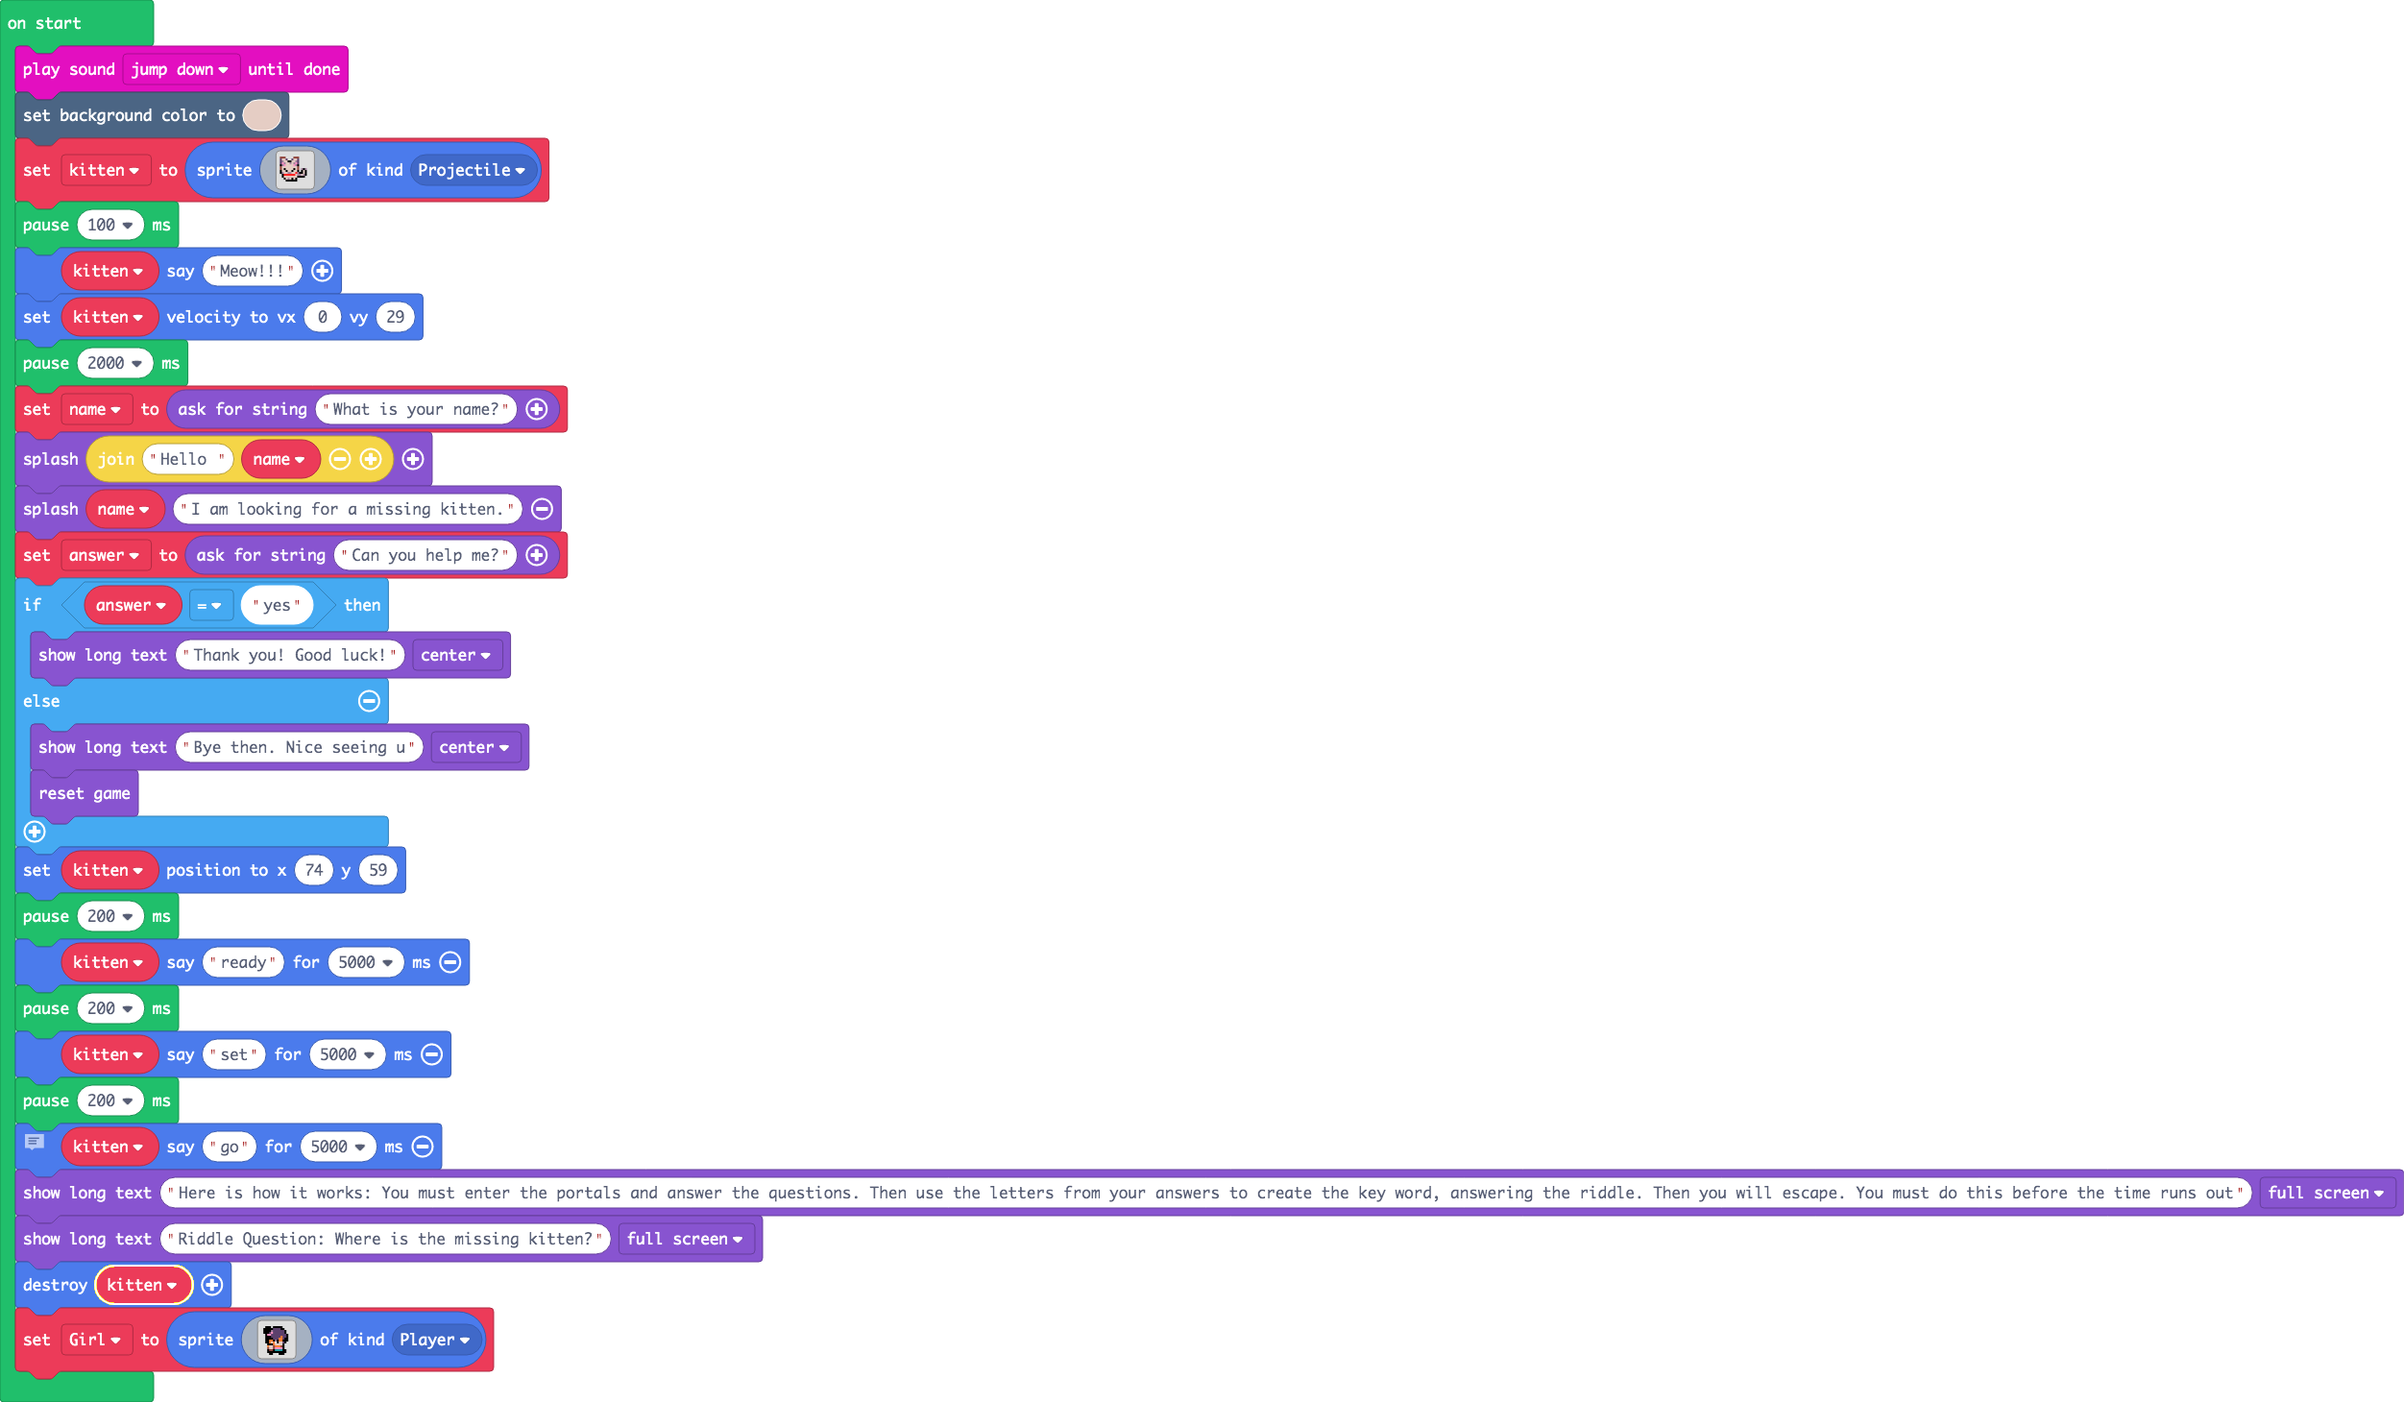
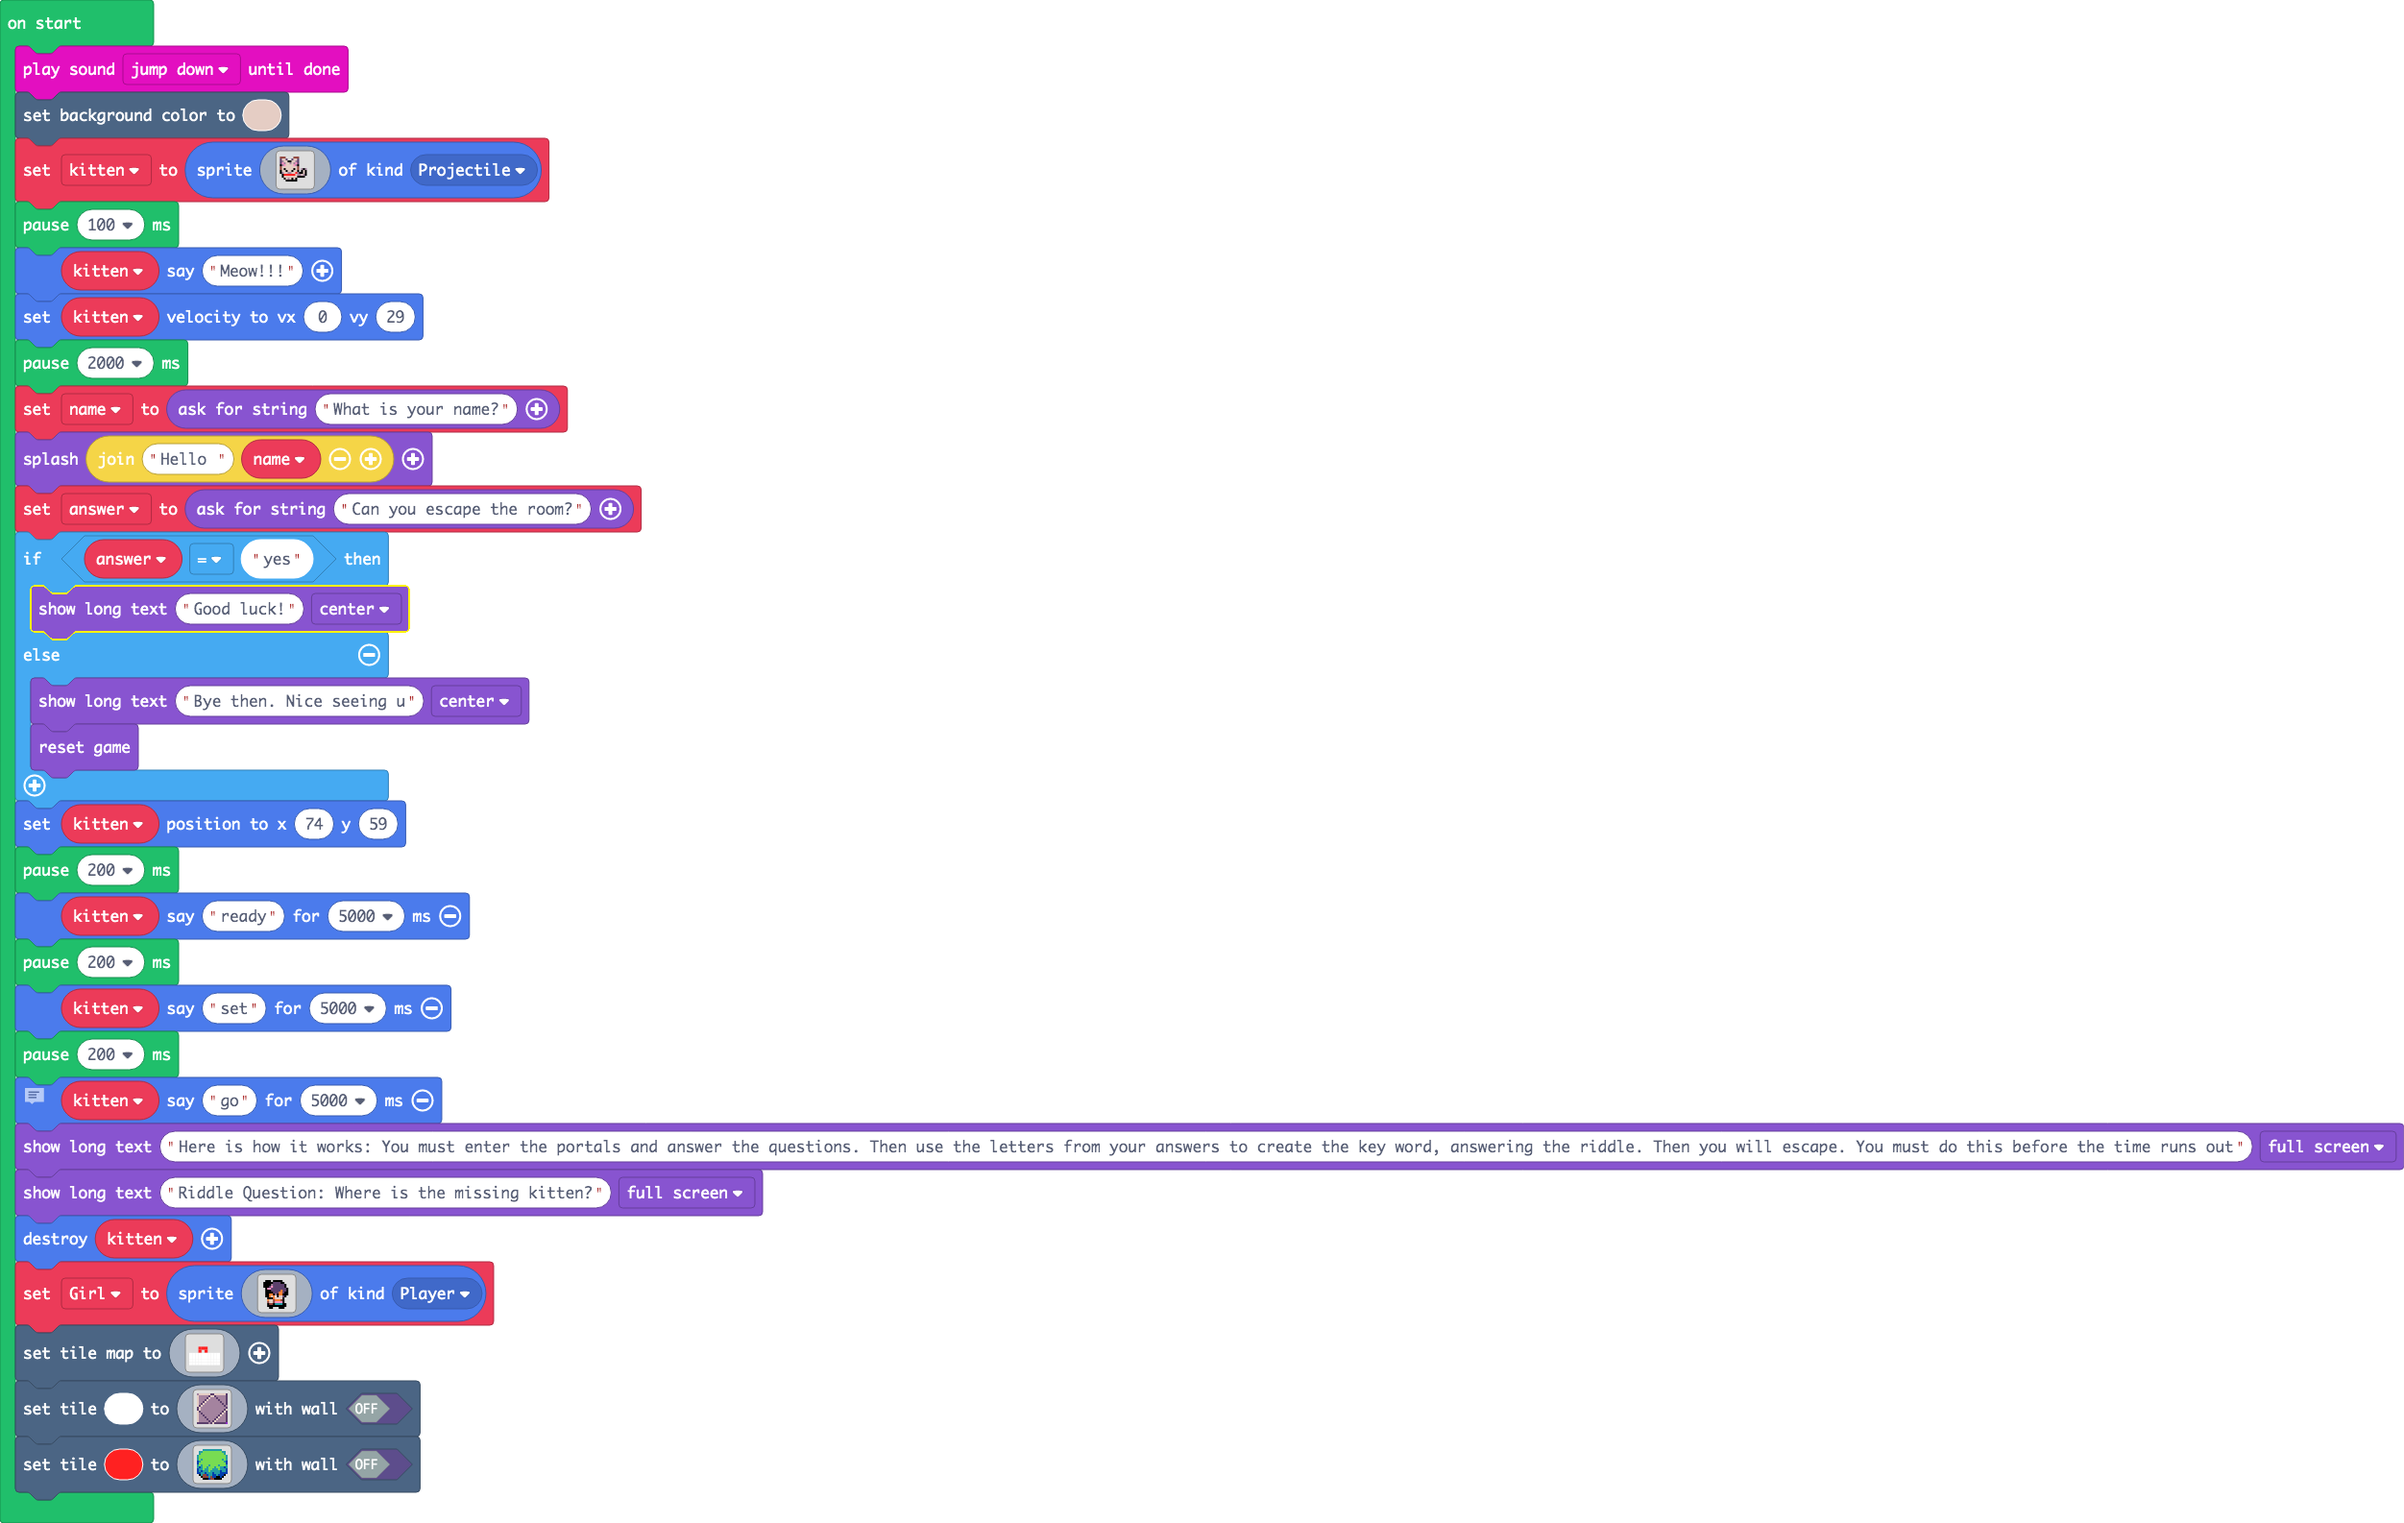
Update main.blocks, main.ts

Changed region(s): [[0.0, 0.0, 1.0, 0.9863]]

diff --git a/main.ts b/main.ts
@@ -29,10 +29,9 @@ kitten.setVelocity(0, 29)
 pause(2000)
 let name = game.askForString("What is your name?")
 game.splash("Hello " + name)
-game.splash(name, "I am looking for a missing kitten.")
-let answer = game.askForString("Can you help me?")
+let answer = game.askForString("Can you escape the room?")
 if (answer == "yes") {
-    game.showLongText("Thank you! Good luck!", DialogLayout.Center)
+    game.showLongText("Good luck!", DialogLayout.Center)
 } else {
     game.showLongText("Bye then. Nice seeing u", DialogLayout.Center)
     game.reset()
@@ -68,3 +67,49 @@ f f f c 3 c c c c c c f . .
 . . f f f f f f f f f f . . 
 . . . f f . . . f f f . . . 
 `, SpriteKind.Player)
+scene.setTileMap(img`
+. . . . . . . . . . 
+. . . . . . . . . . 
+. . . 2 2 2 . . . . 
+. . . 2 . 2 . . . . 
+1 1 1 1 1 1 1 1 1 1 
+1 1 1 1 1 1 1 1 1 1 
+1 1 1 1 1 1 1 1 1 1 
+1 1 1 1 1 1 1 1 1 1 
+`)
+scene.setTile(1, img`
+b d d d d d d c c d d d d d d c 
+d b b b b b c d d c b b b b b c 
+d b b b b c d b b b c b b b b c 
+d b b b c d b b b b b c b b b c 
+d b b c d b b b b b b b c b b c 
+d b c d b b b b b b b b b c b c 
+d c d b b b b b b b b b b b c b 
+c d b b b b b b b b b b b b b c 
+c d b b b b b b b b b b b b c d 
+d c b b b b b b b b b b b c d c 
+d b c b b b b b b b b b c d b c 
+d b b c b b b b b b b c d b b c 
+d b b b c b b b b b c d b b b c 
+d b b b b c b b b c d b b b b c 
+d b b b b b c b c d b b b b b c 
+c c c c c c b c d c c c c c c a 
+`, false)
+scene.setTile(2, img`
+. . . 6 6 6 6 6 6 6 6 6 6 . . . 
+. 6 6 7 7 7 7 7 7 7 7 7 7 6 6 . 
+. 6 7 7 7 7 7 7 7 7 7 7 7 7 6 . 
+6 7 7 7 7 7 7 7 7 7 7 7 7 7 7 6 
+6 7 7 7 7 7 7 7 7 7 7 7 7 7 7 6 
+6 7 6 7 7 7 7 7 7 7 7 7 7 6 7 6 
+8 6 7 7 7 7 7 7 7 7 7 7 7 7 6 8 
+8 7 7 7 7 7 7 7 7 7 7 7 7 7 7 8 
+6 7 6 7 7 7 6 7 7 7 7 6 7 7 7 6 
+6 8 6 7 7 6 7 7 7 6 7 7 6 6 8 6 
+8 6 6 7 6 6 7 7 6 6 6 7 6 6 6 8 
+8 6 8 6 6 6 7 6 6 6 6 6 8 6 6 8 
+8 8 6 6 8 6 6 6 8 6 6 6 8 8 8 8 
+. f 6 e e 8 6 6 8 8 6 8 8 8 f . 
+. . f e e e 6 e 8 8 f f 8 f . . 
+. . . f f f 8 e e f f f f . . . 
+`, false)
